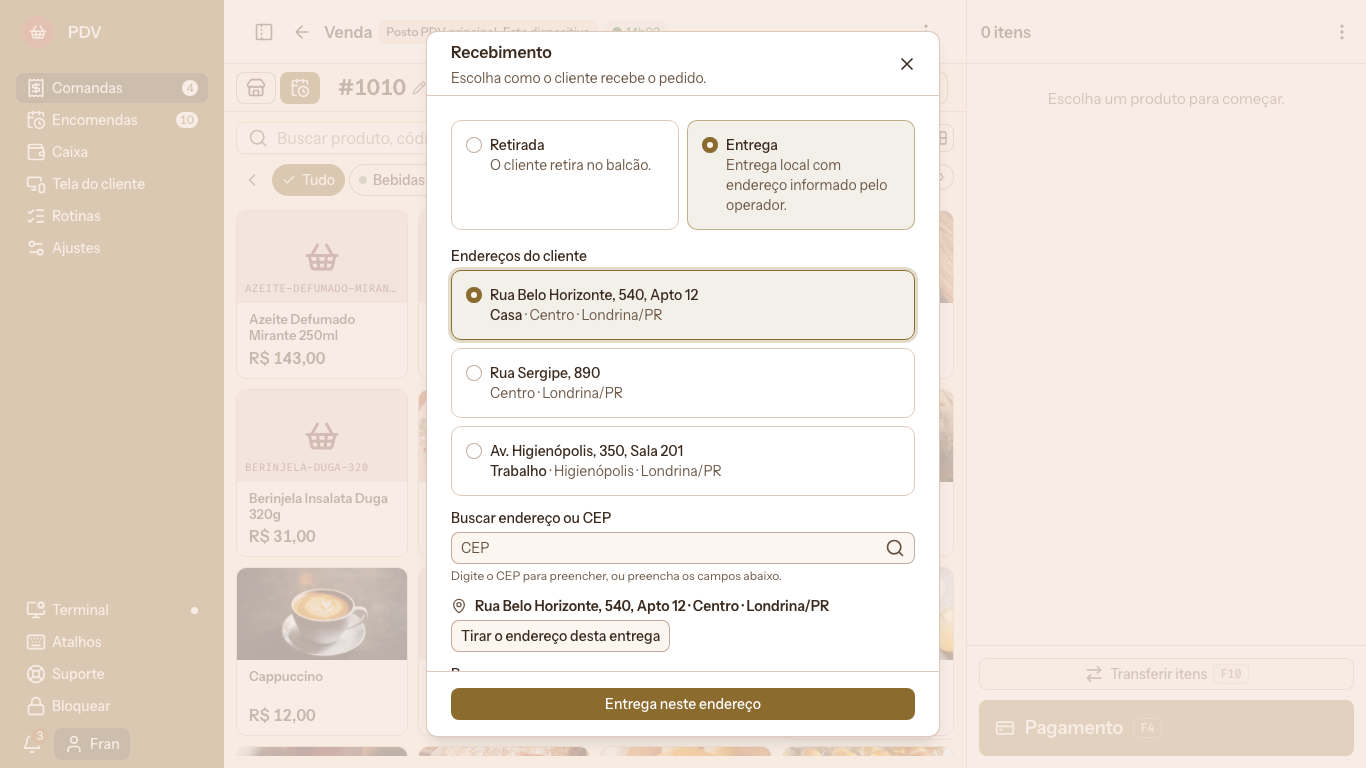
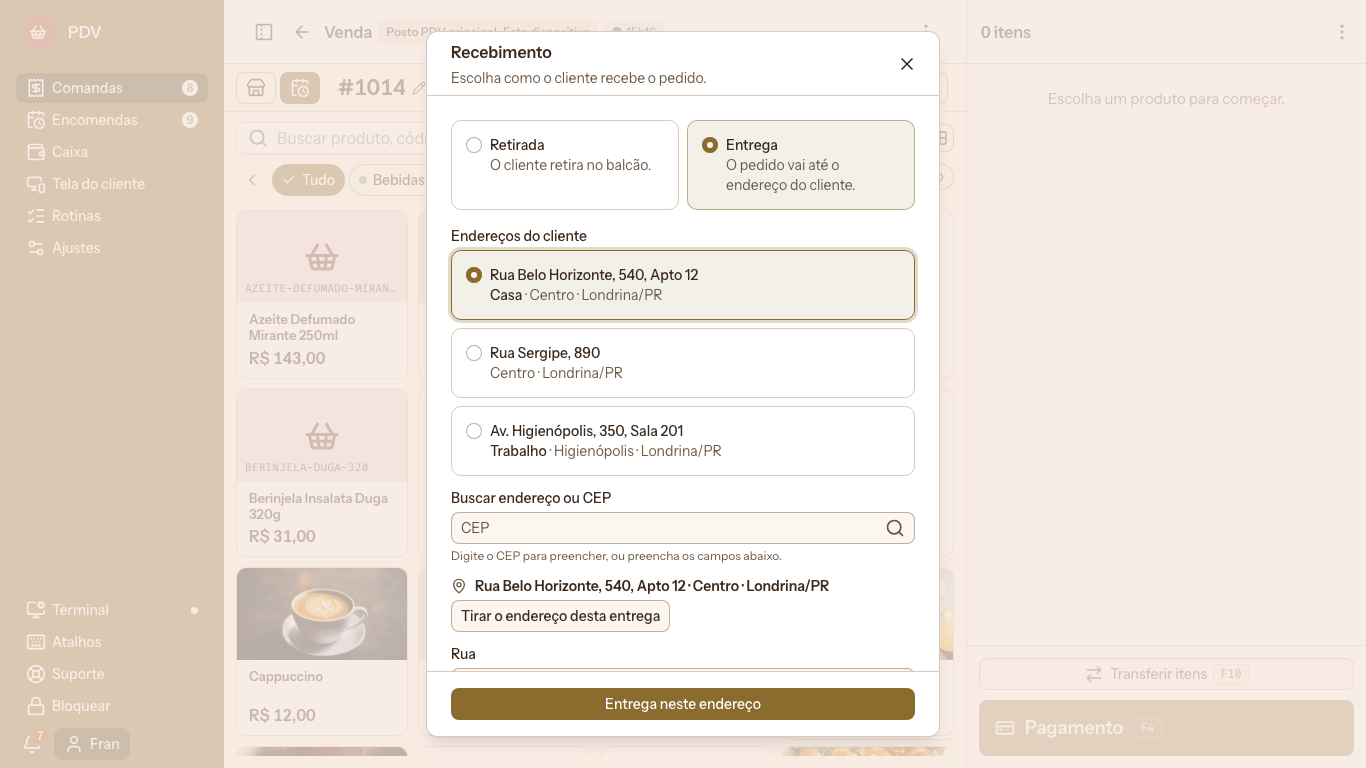
docs(pdv): capturas do cartão Entrega com a frase nova e auditoria refeita (#2806)

diff --git a/docs/coordination/EVIDENCE/EXCELENCIA-PDV/2806/README.md b/docs/coordination/EVIDENCE/EXCELENCIA-PDV/2806/README.md
@@ -15,7 +15,9 @@ a entrega.
    Antes: "Escolha uma opção. Cliente e data não definem como o pedido será recebido."
 3. **Retirada e Entrega mostram qual está escolhida**: a bolinha cheia, a borda e o fundo
    da cor da casa, igual à lista de endereços logo abaixo. Antes, o escolhido só mudava um
-   tom de fundo.
+   tom de fundo. E o cartão Entrega diz o que acontece com o pedido, como o da Retirada:
+   "O pedido vai até o endereço do cliente." (antes: "Entrega local com endereço informado
+   pelo operador."). A mesma frase aparece no assistente da encomenda.
 4. **O endereço escolhido usa o mesmo " · " da lista**, e diz o complemento como a lista:
    "Rua Belo Horizonte, 540, Apto 12 · Centro · Londrina/PR". Antes: "Rua Belo Horizonte,
    540 - Centro - Londrina/PR". O endereço da nota, do entregador e do pedido não muda.
@@ -35,11 +37,14 @@ As mais representativas: `antes/375/01-abertura-do-recebimento.png` (o X sobre "
 contra `depois/375/01-abertura-do-recebimento.png`; e `antes/375/02-retirada-escolhida.png`
 contra `depois/375/02-retirada-escolhida.png`.
 
+As capturas `01`, `02` e `03` do depois foram refeitas com a frase nova do cartão
+Entrega; a `04` mostra o endereço, com os cartões fora da tela, e ficou como estava.
+
 ## A auditoria
 
 `auditoria-depois.txt`, por script, nas oito telas do depois e do antes. No depois: o X
 sobre 0 linhas do título e da frase (no antes, 1 linha da frase a 375 px); transbordo
-lateral 0 em 375 e 1366; os dois cartões com o papel de rádio, a mesma altura e o mesmo
-topo; contraste mínimo 5,75:1 (a descrição do cartão escolhido, sobre o fundo tingido;
+lateral 0 em 375 e 1366; os dois cartões com o papel de rádio, a mesma altura (110 px a 375, 90 px a 1366) e o
+mesmo topo; contraste mínimo 5,75:1 (a descrição do cartão escolhido, sobre o fundo tingido;
 passa o AA de 4,5 e fica abaixo do AAA de 7, como a descrição da lista de endereços);
 toda letra em 14 ou 16 px.
